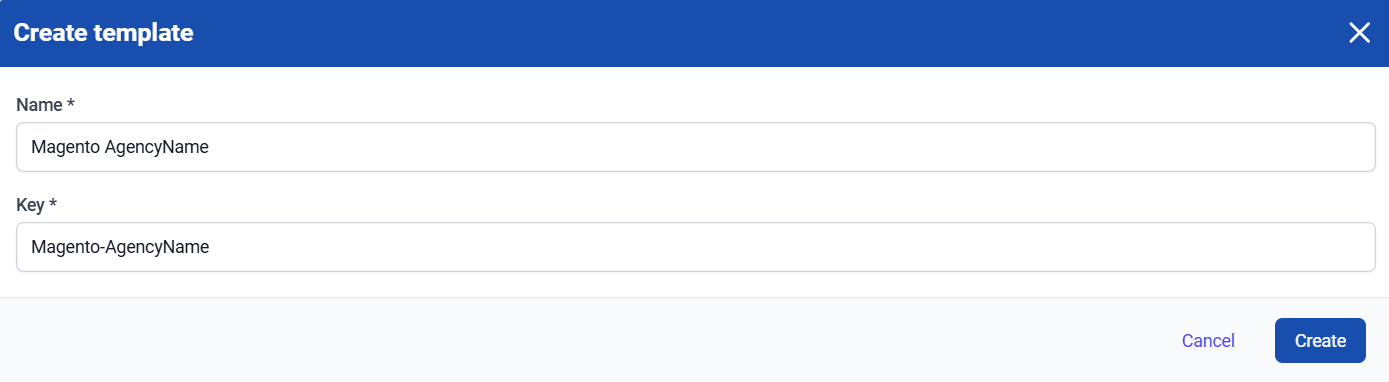
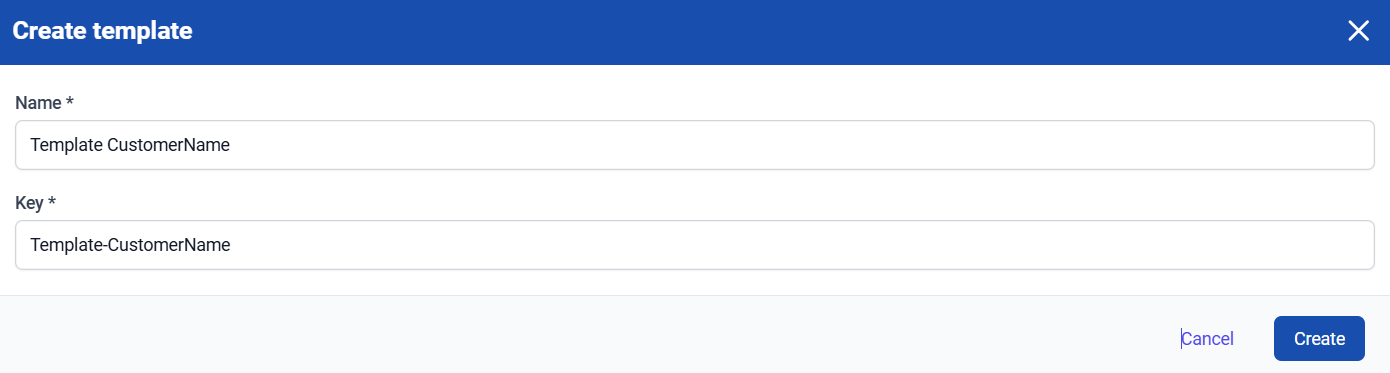
Changed the image to something more generec and explained why templates can benefit you

diff --git a/TurboStack Platform/templates.md b/TurboStack Platform/templates.md
@@ -30,7 +30,9 @@ Once all configuration options have been filled in, clicking **Install** will se
 Don't forget to click **Save & publish** to actually deploy the config to your server!
 
 ### Make your own template
-You have the possibility to create your own templates. 
+You have the possibility to create your own templates. This comes in handy when you need to regularly set up servers that have specific requirements. like a certain MySQL version and/or extra PHP packages. 
+
+Using the templates, will make your deployments easier and faster.
 
 To do this, in the upper-right corner of the **Templates** tab, click **Create**. This will bring up a new screen where you can choose the name for the template.
 
